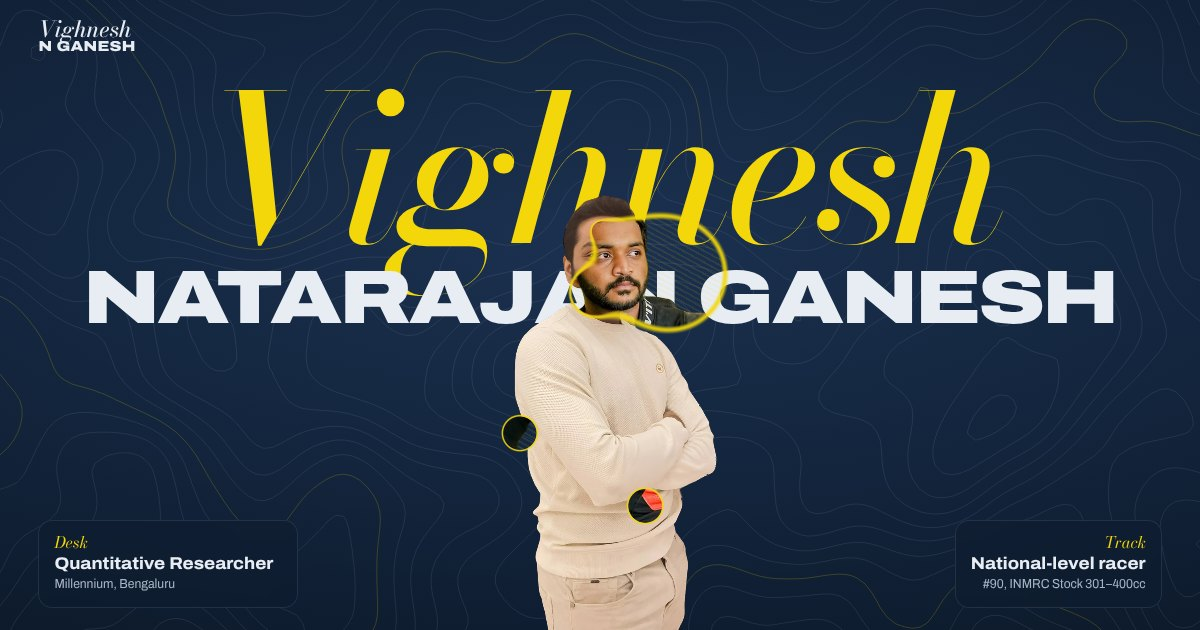
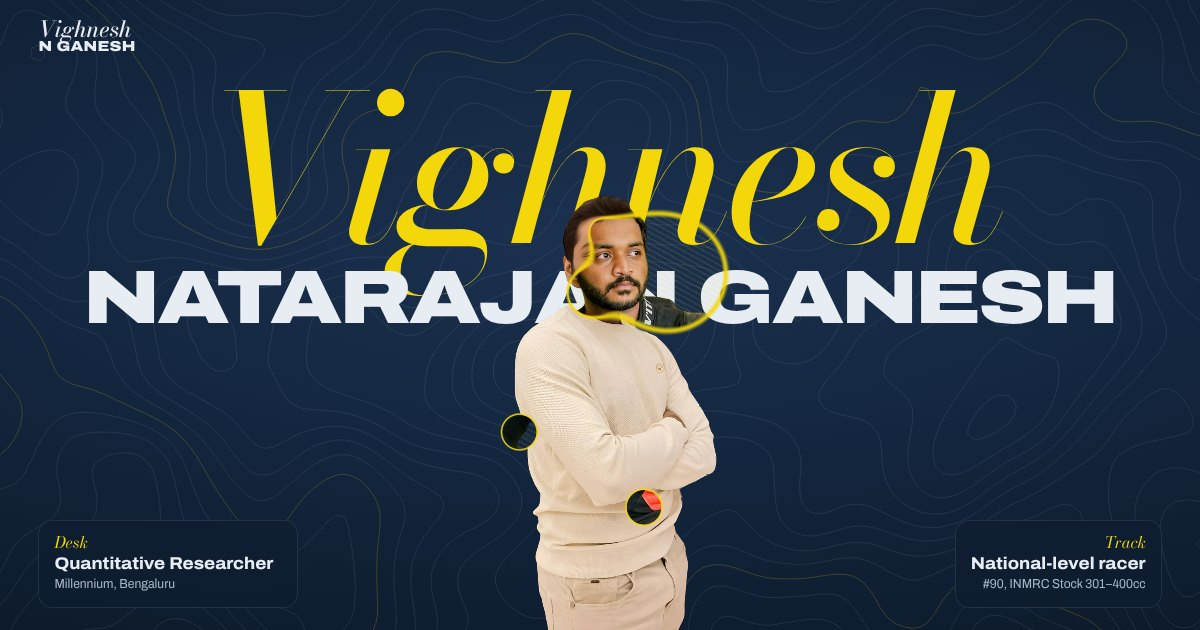
Hero colour match, new track quote, copy tweaks

diff --git a/index.html b/index.html
@@ -103,7 +103,7 @@
           <span class="tag-v">Quantitative Researcher</span>
           <span class="tag-s">Millennium, Bengaluru</span>
         </div>
-        <p class="hero-hint" data-hint><span class="hint-dot" aria-hidden="true"></span><span class="hint-desk">Move your cursor to see race day</span><span class="hint-touch">Drag across to see race day</span></p>
+        <p class="hero-hint" data-hint><span class="hint-dot" aria-hidden="true"></span><span class="hint-desk">Move your cursor to see race day</span><span class="hint-touch">Drag across</span></p>
         <div class="hero-tag hero-tag-r">
           <span class="tag-k">Track</span>
           <span class="tag-v">National-level racer</span>
@@ -149,7 +149,7 @@
         <h3 class="panel-org">Millennium</h3>
         <p class="panel-role">Quantitative Researcher, Commodities</p>
         <ul class="panel-points">
-          <li>Built from zero the power demand forecasts portfolio managers trade across 32 European markets.</li>
+          <li>Built the power demand forecasts portfolio managers trade across 32 European markets.</li>
           <li>Physical and AI weather models (ECMWF, GFS, EC46, AIFS, GenCast) turned into earlier, cleaner signal.</li>
           <li>Own the pipeline end to end, from ingestion to monitoring.</li>
         </ul>
@@ -290,7 +290,7 @@
   <div class="collage" data-collage>
     <figure class="ph ph-1" data-speed="0.12"><img src="assets/img/pan-wide-1400.webp" srcset="assets/img/pan-wide-1400.webp 1400w, assets/img/pan-wide-2400.webp 2400w" sizes="(min-width: 900px) 58vw, 92vw" width="1400" height="787" alt="The #90 R3 flat out on the straight, background blurred" loading="lazy"><figcaption>Flat out, INMRC</figcaption></figure>
     <figure class="ph ph-2" data-speed="-0.1"><img src="assets/img/helmet-700.webp" srcset="assets/img/helmet-700.webp 700w, assets/img/helmet-1080.webp 1080w" sizes="(min-width: 900px) 26vw, 60vw" width="700" height="875" alt="Close-up of Vighnesh's helmet, tucked in behind the screen" loading="lazy"><figcaption>Full tuck. Photo: Praharsha Majeti</figcaption></figure>
-    <blockquote class="collage-quote" data-speed="0.05"><p>Racing and forecasting reward the same habit: commit under uncertainty, read the data afterwards, find the next tenth.</p></blockquote>
+    <blockquote class="collage-quote" data-speed="0.05"><p>Racing and forecasting reward the same habits: find the edge where it feels impossible, trust your markers when it’s time to commit, and stay calm under pressure.</p></blockquote>
     <figure class="ph ph-3" data-speed="0.18"><img src="assets/img/dice-700.webp" srcset="assets/img/dice-700.webp 700w, assets/img/dice-1200.webp 1200w" sizes="(min-width: 900px) 30vw, 70vw" width="700" height="875" alt="Number 90 leading number 21 through a corner" loading="lazy"><figcaption>Holding off #21</figcaption></figure>
     <figure class="ph ph-4" data-speed="-0.06"><img src="assets/img/plaque-800.webp" srcset="assets/img/plaque-800.webp 800w, assets/img/plaque-1400.webp 1400w" sizes="(min-width: 900px) 34vw, 80vw" width="800" height="600" alt="Dirt helmet beside a third-place number board, Slide School Cup Bangalore Regionals" loading="lazy"><figcaption>P3, Bengaluru regionals, 2026</figcaption></figure>
     <figure class="ph ph-5" data-speed="0.1"><img src="assets/img/flattrack-600.webp" srcset="assets/img/flattrack-600.webp 600w, assets/img/flattrack-1000.webp 1000w" sizes="(min-width: 900px) 24vw, 60vw" width="600" height="800" alt="Vighnesh on a white Royal Enfield flat track bike, number 1" loading="lazy"><figcaption>National final, Jaipur, 2026</figcaption></figure>
